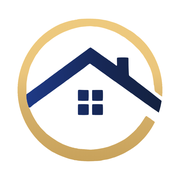
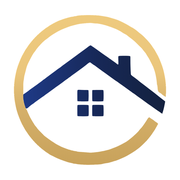
frontend: okrugla ikonica sajta, dugme nazad na vrh desno sa ^
- favicon: okrugla bela podloga malo sira od zlatnog prstena (umesto kvadrata)
- scroll-to-top: dole desno, vece (56px, 50px na telefonu), chevron umesto strelice

Claude-Session: https://claude.ai/code/session_01CGtuBVLyKDopyLs39Nukch

diff --git a/client/css/style.css b/client/css/style.css
@@ -2304,11 +2304,11 @@ textarea.field-input { resize: none; }
    =========================== */
 .scroll-top {
     position: fixed;
-    left: 24px;
+    right: 24px;
     bottom: 24px;
     z-index: 1020; /* under the Bootstrap modal/backdrop, over page content */
-    width: 48px;
-    height: 48px;
+    width: 56px;
+    height: 56px;
     display: grid;
     place-items: center;
     padding: 0;
@@ -2316,7 +2316,7 @@ textarea.field-input { resize: none; }
     border-radius: 50%;
     background: var(--primary);
     color: var(--accent);
-    font-size: 1.15rem;
+    font-size: 1.35rem;
     box-shadow: 0 6px 20px rgba(15, 23, 42, 0.28), inset 0 0 0 1px rgba(201, 162, 39, 0.35);
     cursor: pointer;
     opacity: 0;
@@ -2333,11 +2333,11 @@ textarea.field-input { resize: none; }
 }
 
 .scroll-top i {
-    -webkit-text-stroke: 0.6px currentColor;
+    -webkit-text-stroke: 1px currentColor;
     transition: translate 0.2s var(--ease-out);
 }
 
-/* Hover: gold fill, the arrow nudges up */
+/* Hover: gold fill, the chevron nudges up */
 .scroll-top:hover {
     background: var(--accent);
     color: var(--white);
@@ -2359,10 +2359,10 @@ textarea.field-input { resize: none; }
 
 @media (max-width: 767px) {
     .scroll-top {
-        left: 16px;
+        right: 16px;
         bottom: 16px;
-        width: 44px;
-        height: 44px;
+        width: 50px;
+        height: 50px;
     }
 }
 

diff --git a/client/js/scroll-top.js b/client/js/scroll-top.js
@@ -1,5 +1,5 @@
 // ===========================
-// scroll-top.js — "back to top" button, bottom-left on every page
+// scroll-top.js — "back to top" button, bottom-right on every page
 // ===========================
 (function () {
   'use strict';
@@ -10,7 +10,7 @@
   btn.type = 'button';
   btn.className = 'scroll-top';
   btn.setAttribute('aria-label', 'Nazad na vrh stranice');
-  btn.innerHTML = '<i class="bi bi-arrow-up" aria-hidden="true"></i>';
+  btn.innerHTML = '<i class="bi bi-chevron-up" aria-hidden="true"></i>';
   // Hidden from keyboard and screen readers until it is shown
   btn.tabIndex = -1;
   btn.setAttribute('aria-hidden', 'true');
